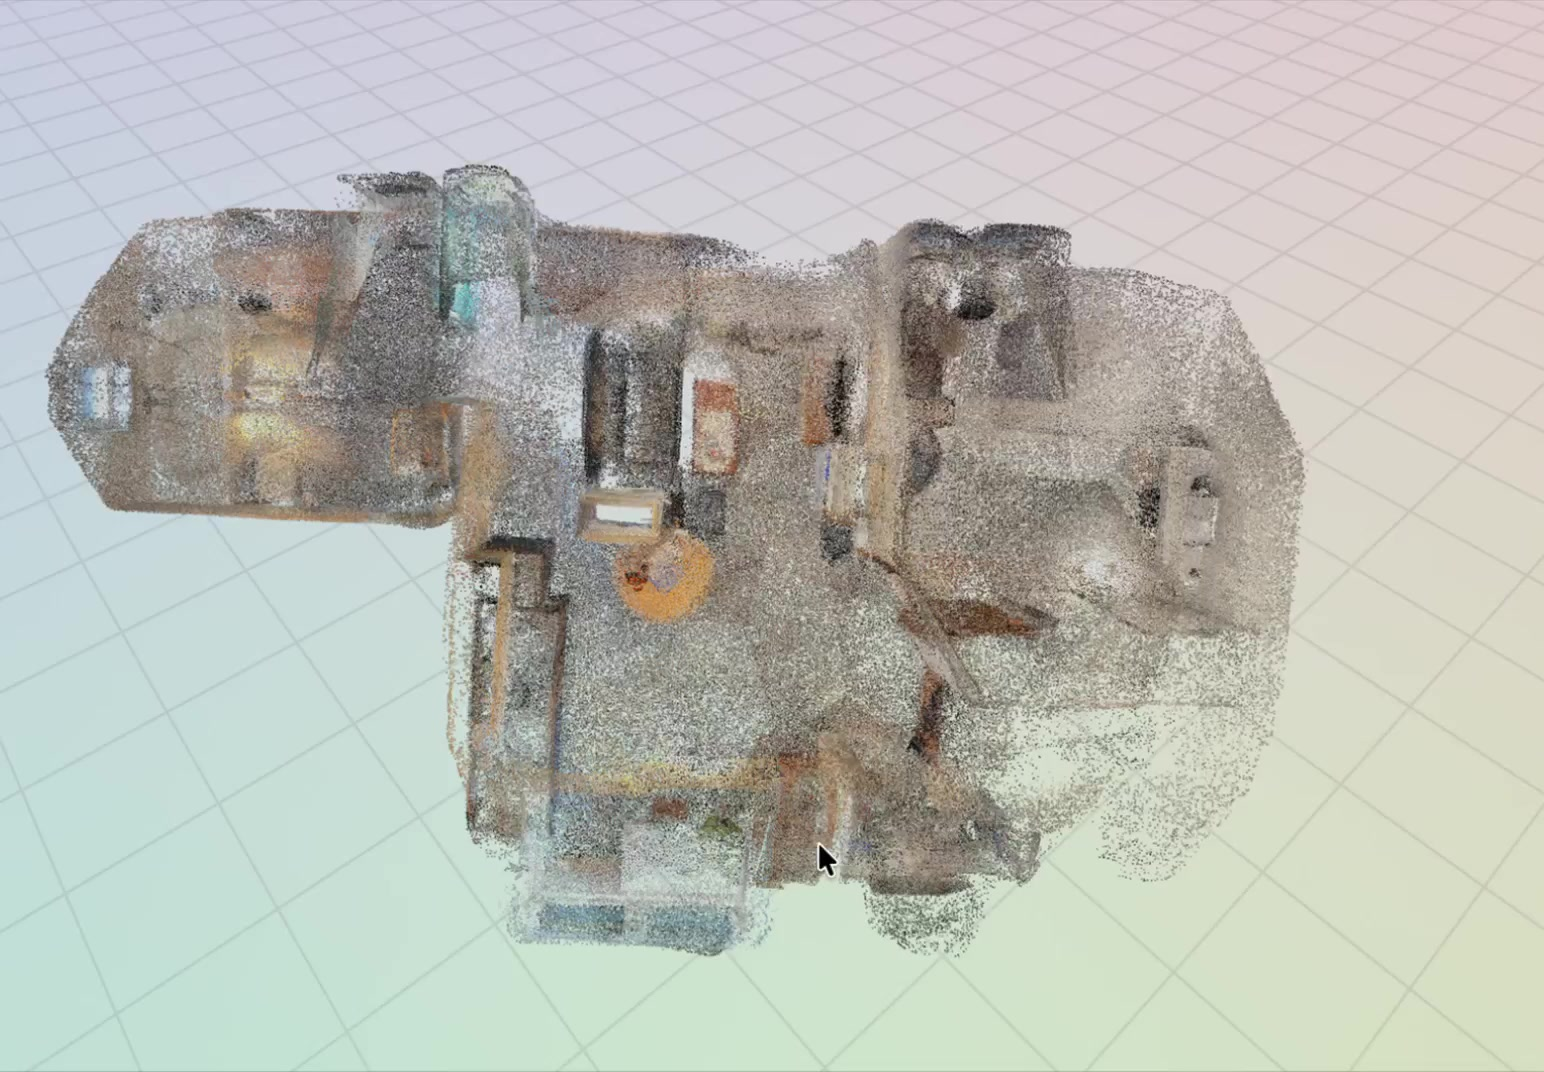
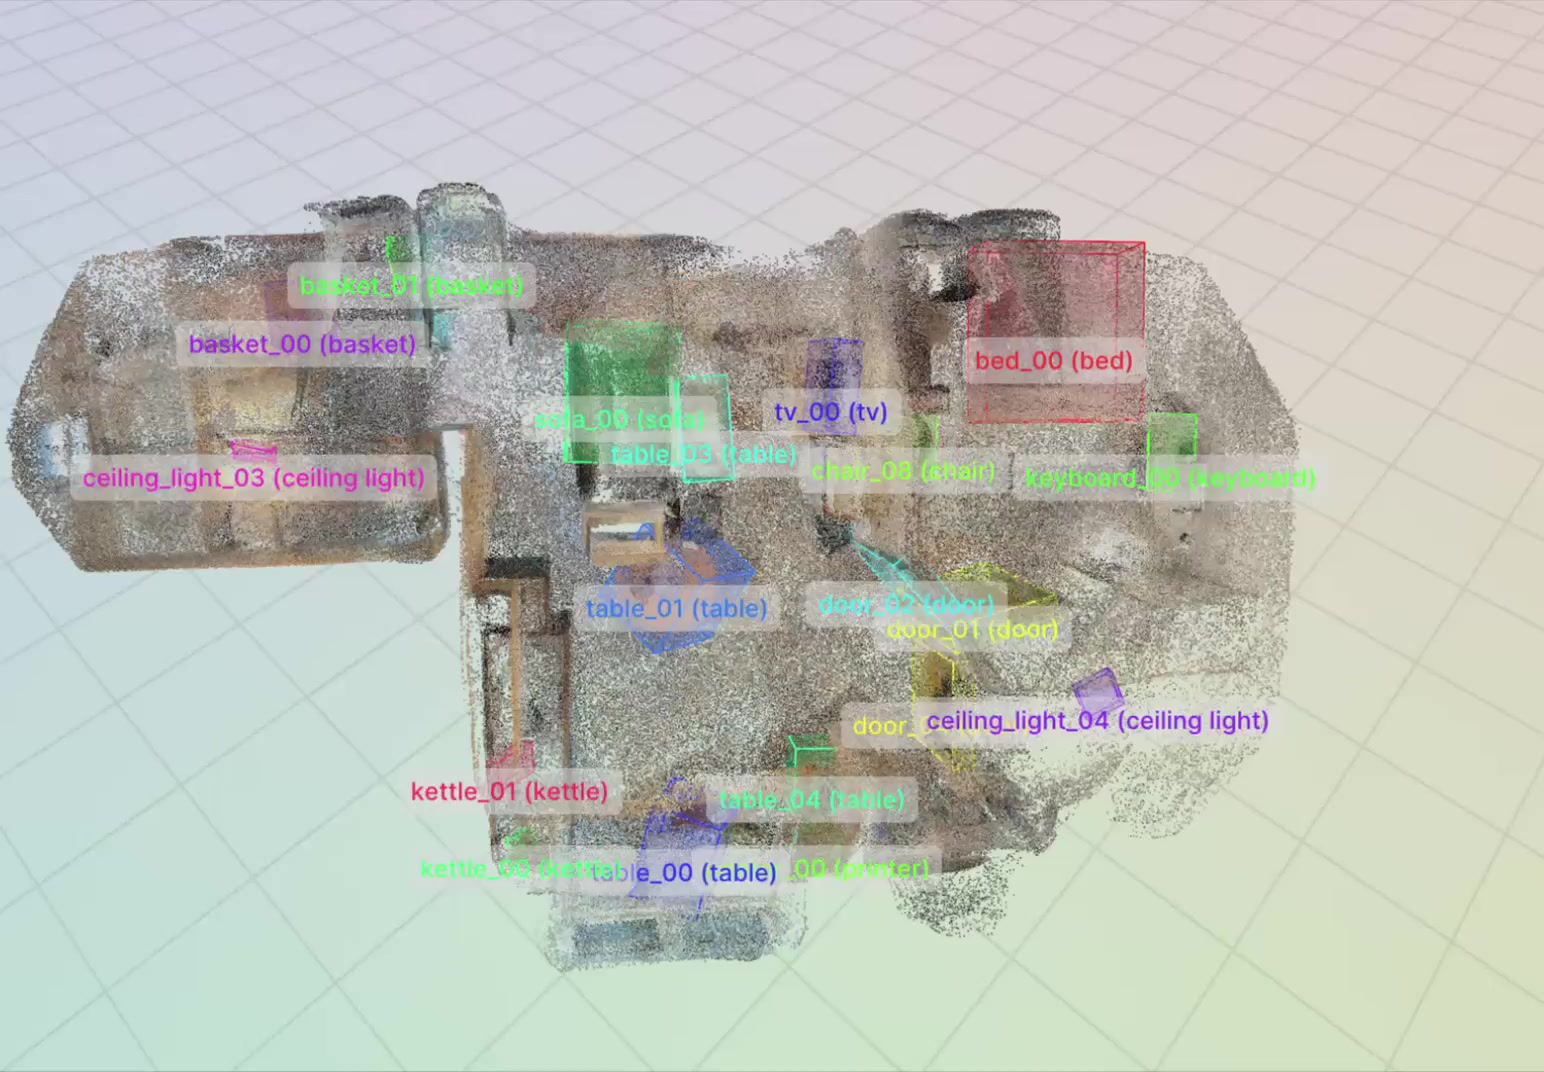
feat: regenerate spatial intelligence video from updated source
Re-encode the shorter spatial.mov clip with the same crop and card aspect ratio, and bump cache-bust params so browsers fetch the new assets.

Changed region(s): [[0.0, 0.1539, 0.8705, 0.9235]]

diff --git a/index.html b/index.html
@@ -161,10 +161,10 @@
               loop
               playsinline
               preload="metadata"
-              poster="assets/spatial_intelligence_poster.jpg?v=20260621"
+              poster="assets/spatial_intelligence_poster.jpg?v=20260622"
               aria-label="Animated spatial scene understanding with object-centric map"
             >
-              <source src="assets/spatial_intelligence.mp4?v=20260621" type="video/mp4" />
+              <source src="assets/spatial_intelligence.mp4?v=20260622" type="video/mp4" />
               Your browser does not support the video tag.
             </video>
             <h3>Spatial intelligence</h3>